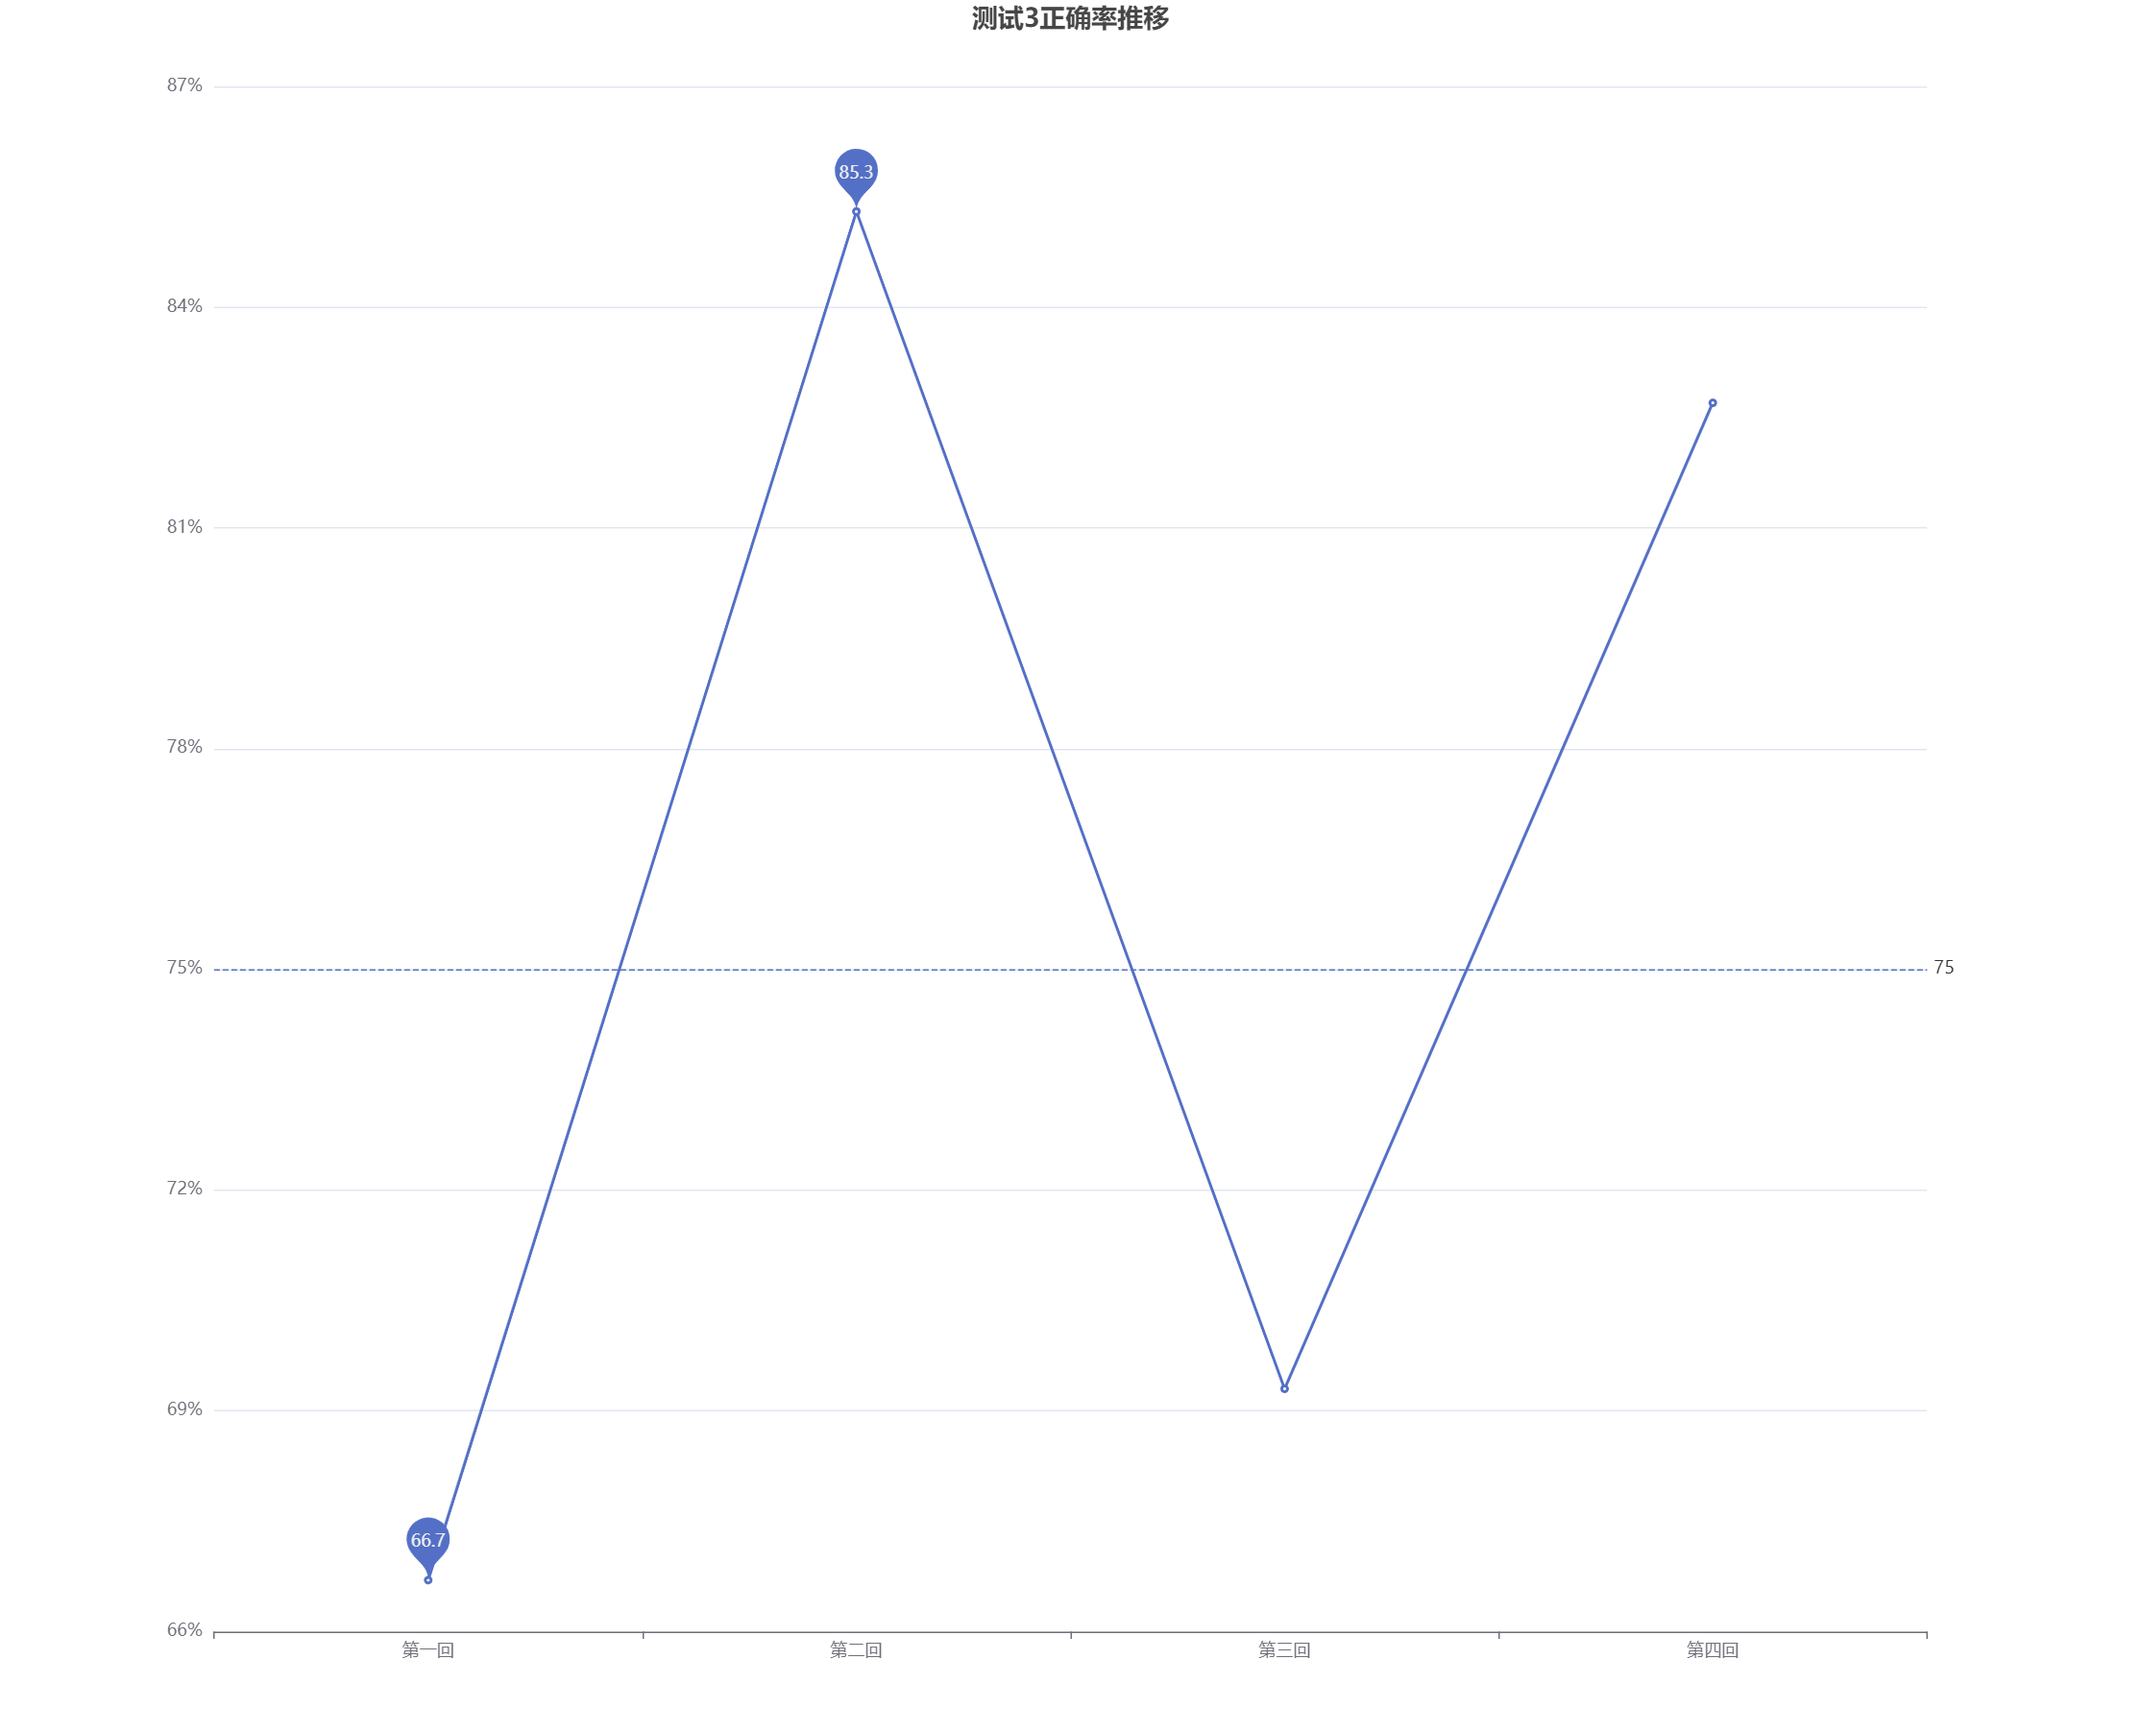
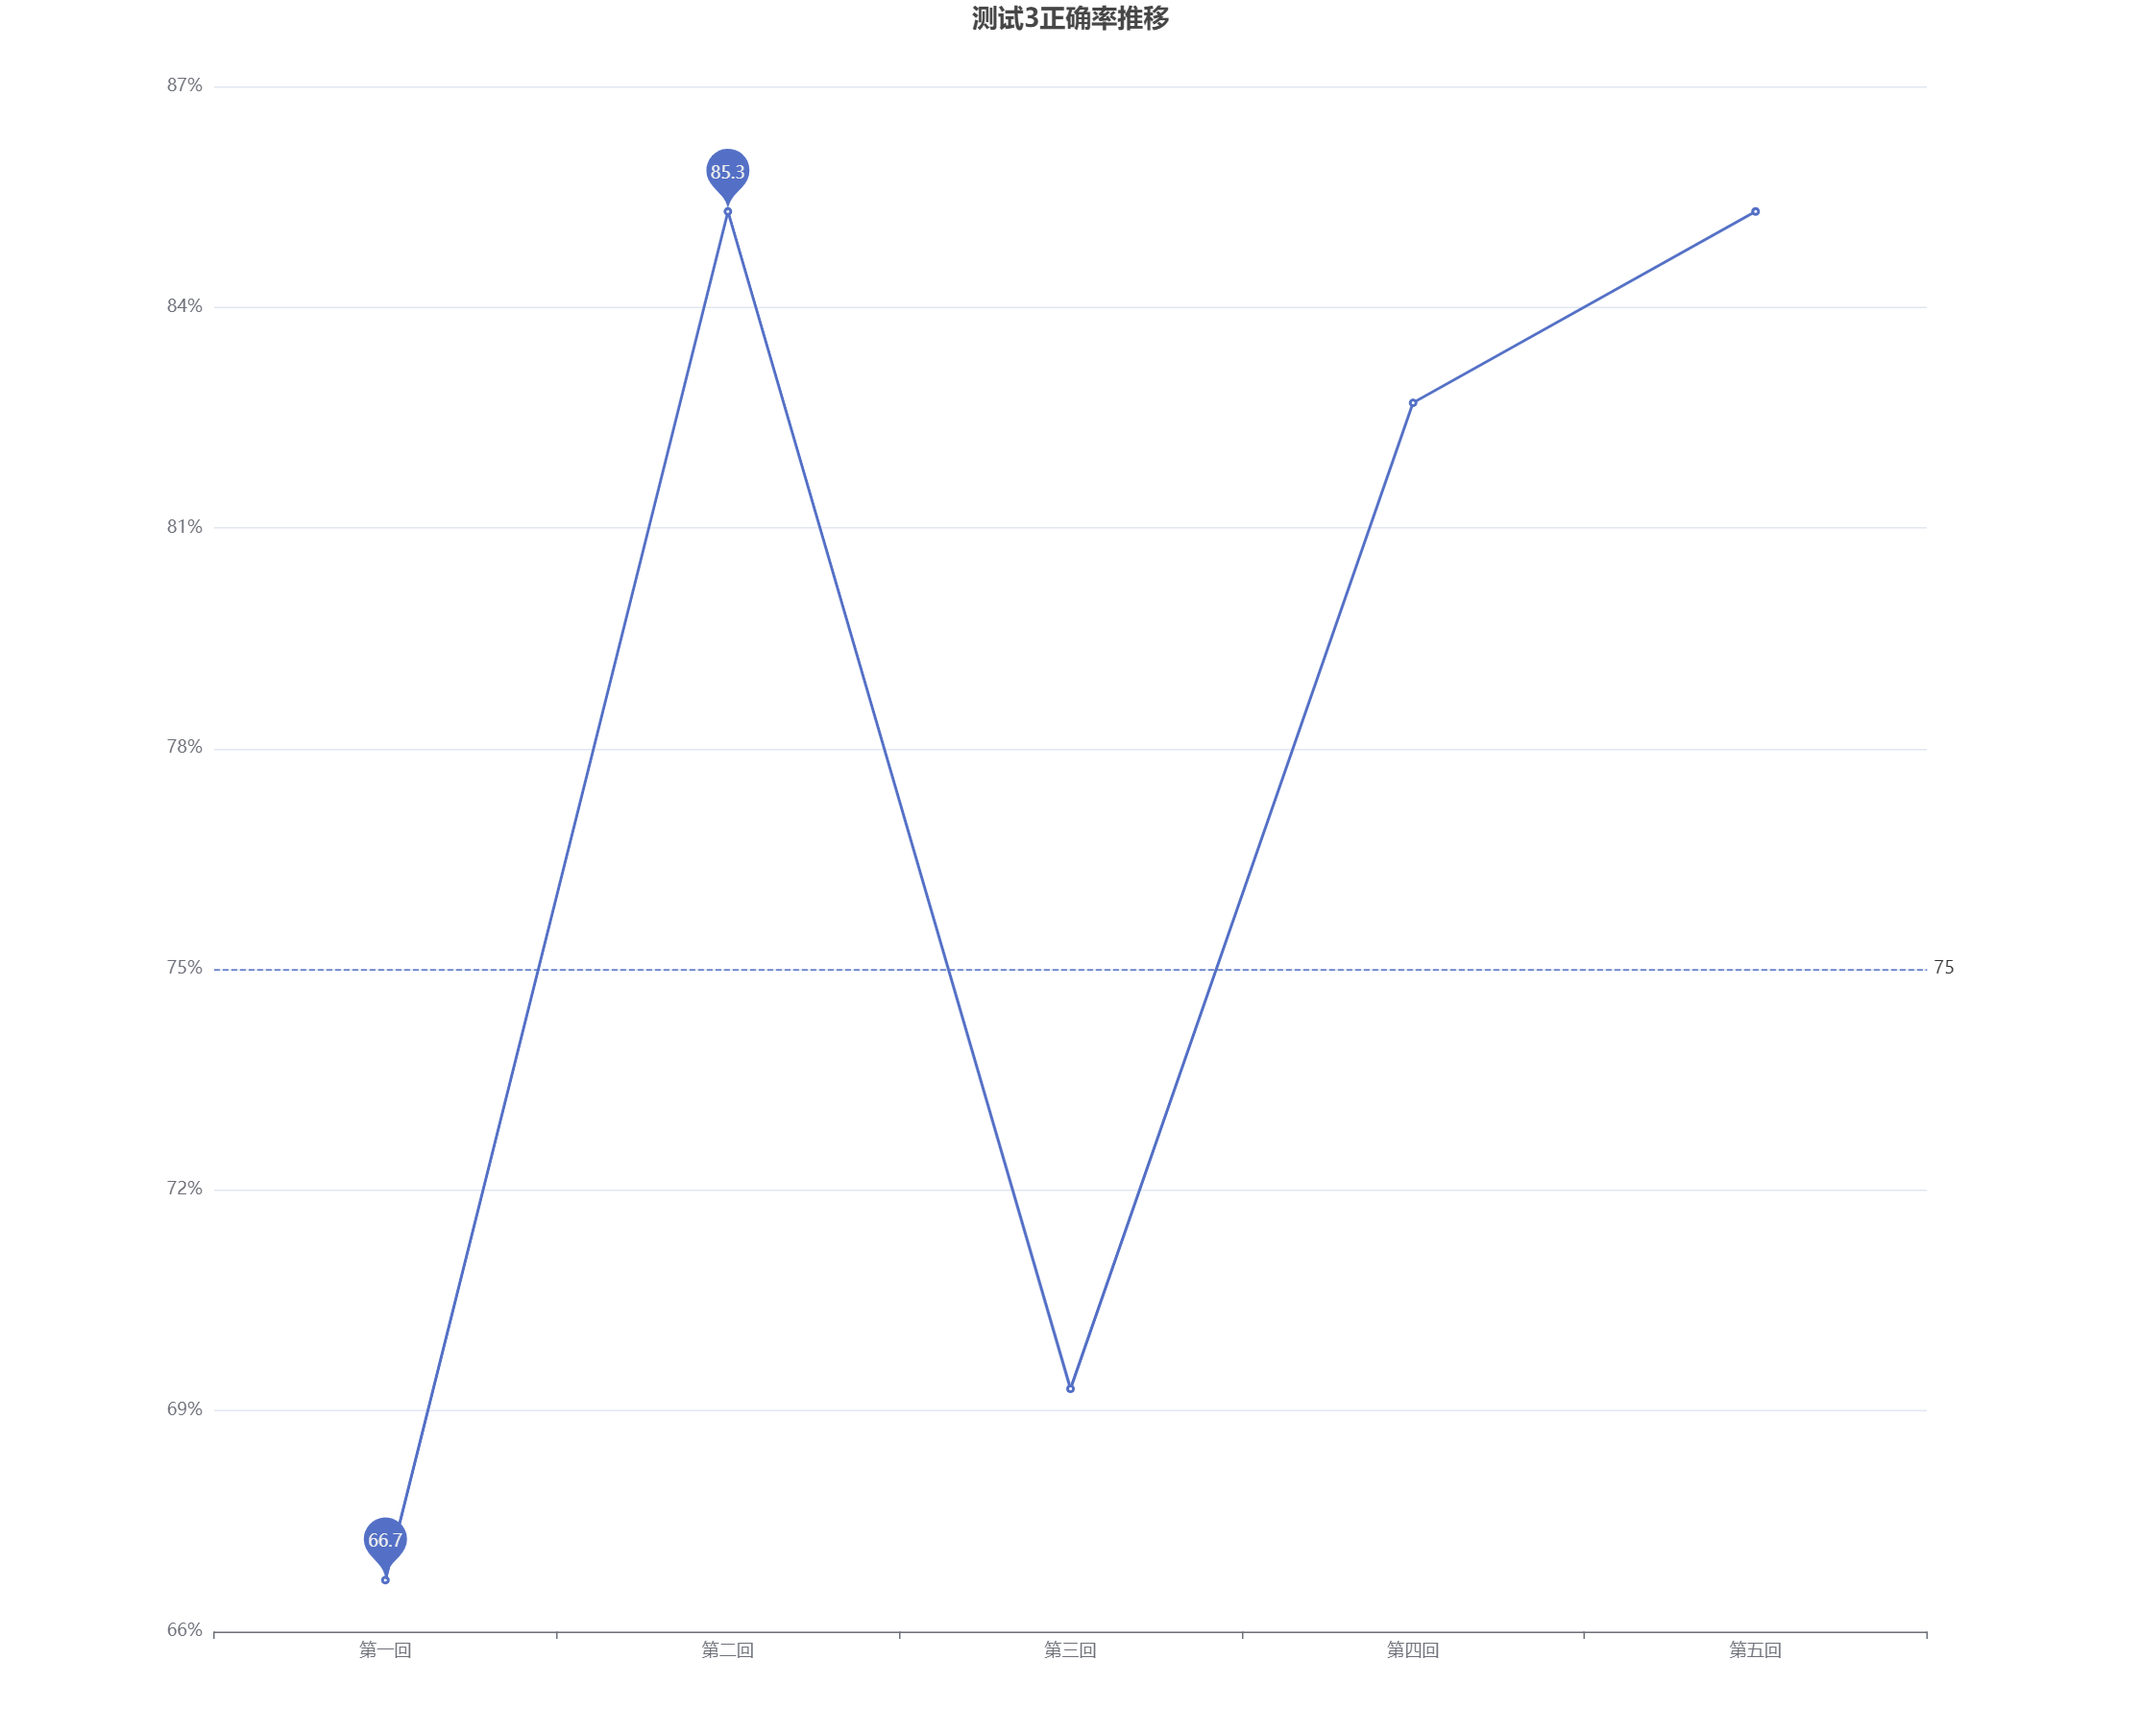
[update] up test 3 result

diff --git a/src/testReview.js b/src/testReview.js
@@ -146,16 +146,18 @@ option = {
       source: [
         ["152", 3],
         ["153", 1],
+        ["154", 1],
         ["155", 1],
         ["159", 1],
         ["160", 3],
         ["161", 3],
-        ["162", 2],
-        ["163", 1],
+        ["162", 3],
+        ["163", 2],
         ["164", 3],
         ["165", 3],
         ["166", 3],
         ["169", 3],
+        ["168", 1],
         ["170", 1],
         ["171", 1],
         ["172", 1],
@@ -163,24 +165,27 @@ option = {
         ["176", 1],
         ["174", 1],
         ["177", 2],
+        ["179", 1],
         ["181", 2],
         ["184", 2],
         ["186", 2],
-        ["189", 1],
+        ["189", 2],
+        ["193", 1],
         ["194", 1],
-        ["195", 1],
+        ["195", 2],
+        ["196", 1],
         ["202", 1],
         ["204", 1],
         ["207", 3],
         ["208", 1],
         ["209", 1],
         ["210", 1],
-        ["211", 2],
+        ["211", 3],
         ["213", 4],
         ["214", 2],
         ["216", 2],
         ["217", 1],
-        ["218", 1],
+        ["218", 2],
         ["219", 3],
         ["222", 1],
         ["223", 3],

diff --git a/src/correctRate.js b/src/correctRate.js
@@ -90,7 +90,7 @@ option = {
   },
   xAxis: {
     type: "category",
-    data: ["第一回", "第二回", "第三回", "第四回"],
+    data: ["第一回", "第二回", "第三回", "第四回", "第五回"],
   },
   yAxis: {
     type: "value",
@@ -101,7 +101,7 @@ option = {
   },
   series: [
     {
-      data: [66.7, 85.3, 69.3, 82.7],
+      data: [66.7, 85.3, 69.3, 82.7, 85.3],
       type: "line",
       markLine: {
         symbol: ["none", "none"],

diff --git a/高频错题集/README.md b/高频错题集/README.md
@@ -918,3 +918,30 @@
        第505题，答案A。
 
     </details>
+
+69. To abide by industry regulations, a Solutions Architect must design a solution that will store a company's critical data in multiple public AWS Regions, including in the United States, where the company's headquarters is located. The Solutions Architect is required to provide access to the data stored in AWS to the company's global WAN network. The Security team mandates that no traffic accessing this data should traverse the public internet. How should the Solutions Architect design a highly available solution that meets the requirements and is cost-effective?
+    - [ ] A. Establish AWS Direct Connect connections from the company headquarters to all AWS Regions in use. Use the company WAN to send traffic over to the headquarters and then to the respective DX connection to access the data.
+    - [ ] B. Establish two AWS Direct Connect connections from the company headquarters to an AWS Region. Use the company WAN to send traffic over a DX connection. Use inter-region VPC peering to access the data in other AWS Regions.
+    - [ ] C. Establish two AWS Direct Connect connections from the company headquarters to an AWS Region. Use the company WAN to send traffic over a DX connection. Use an AWS transit VPC solution to access data in other AWS Regions.
+    - [ ] D. Establish two AWS Direct Connect connections from the company headquarters to an AWS Region. Use the company WAN to send traffic over a DX connection. Use Direct Connect Gateway to access data in other AWS Regions.
+
+    <details>
+       <summary>Answer</summary>
+
+       第162题，答案D。
+
+    </details>
+
+70. A large company with hundreds of AWS accounts has a newly established centralized internal process for purchasing new or modify existing Reserved Instances. This process requires all business units that want to purchase or modify reserved Instances to submit requests to a dedicated team for procurement or execution. Previously, business units would directly purchase or modify Reserved instances in their own respective AWS accounts autonomously. Which combination of steps should be taken to proactively enforce the new process in the Most secure way possible?
+    - [ ] A. Ensure all AWS accounts are part of an AWS Organizations structure operating in all features mode.
+    - [ ] B. Use AWS Config to report on the attachment of an IAM policy that denies access to the ec2:PurchaseReservedInstancesOffering and ec2:ModifyReservedInstances actions.
+    - [ ] C. In each AWS account, create an IAM policy with a DENY rule to the ec2:PurchaseReservedInstancesOffering and ec2:ModifyReservedInstances actions.
+    - [ ] D. Create an SCP that contains a deny rule to the c2:PurchaseReservedInstancesOffering and ec2:ModifyReservedInstances actions. Attach the SCP to each organizational unit (OU) of the AWS Organizations structure.
+    - [ ] E. Ensure that all AWS accounts are part of an AWS Organizations structure operating in consolidated billing features mode.
+
+    <details>
+       <summary>Answer</summary>
+
+       第211题，答案D。
+
+    </details>

diff --git a/第2套/README.md b/第2套/README.md
@@ -777,7 +777,7 @@
     <details>
        <summary>Answer</summary>
 
-       没有存储元数据的需求，所以使用Kinesis和EMR是最佳组合
+       没有存储元数据的需求，所以使用Kinesis和EMR是最佳组合, 答案D。
 
     </details>
 
@@ -1358,7 +1358,7 @@
     <details>
        <summary>Answer</summary>
 
-       使用NAT网关是最佳实践
+       使用NAT网关是最佳实践，答案A。
 
     </details>
 
